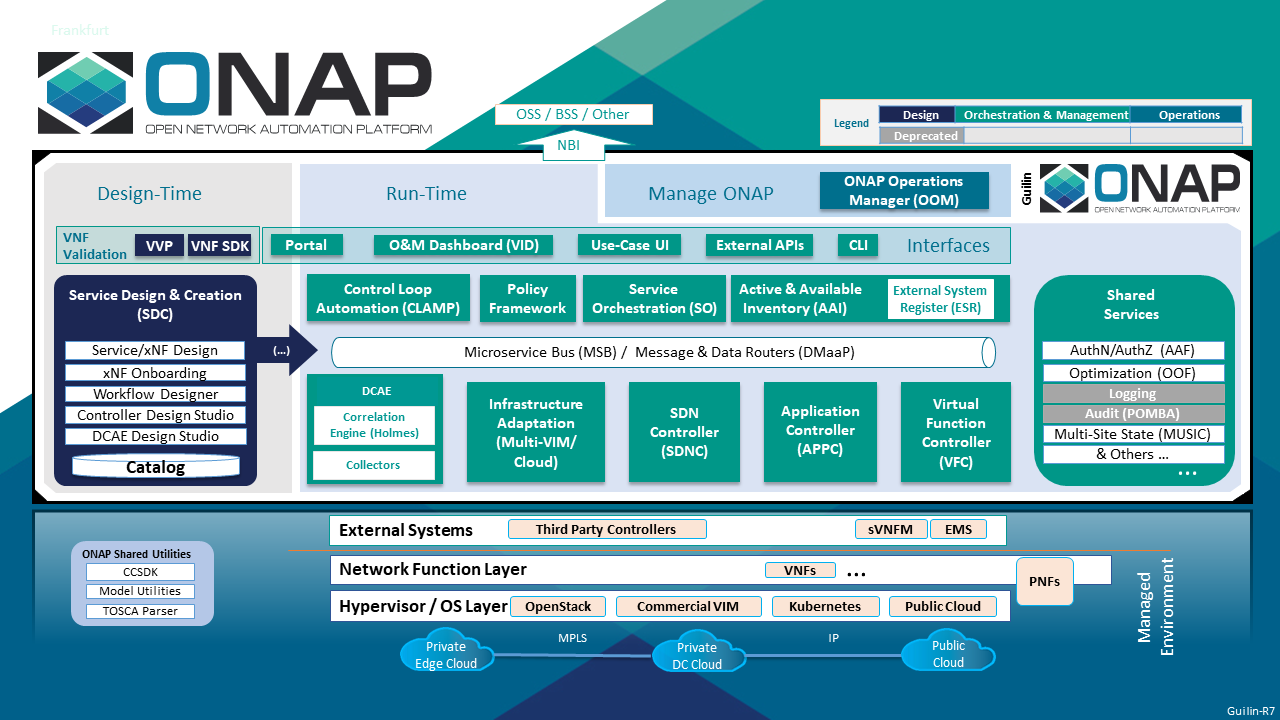
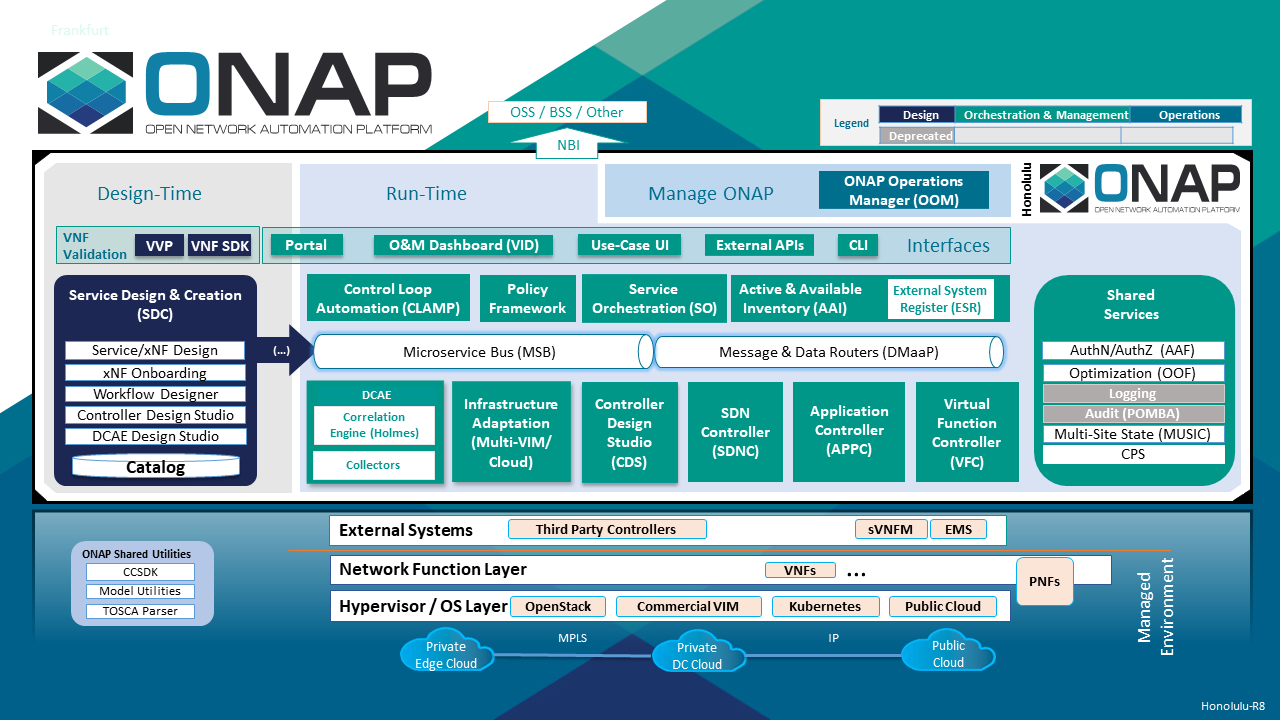
Update architecture description for Honolulu
Updated architecture descrition to add CPS for Honolulu

Issue-ID: DOC-734

(cherry picked from commit ce69aa59a6ebae37f3cbafd63e944a7e367d9d2f)

diff --git a/docs/guides/onap-developer/architecture/onap-architecture.rst b/docs/guides/onap-developer/architecture/onap-architecture.rst
@@ -414,17 +414,24 @@ capabilities with the introduction of adaptive policy execution.
 Shared Services
 ===============
 ONAP provides a set of operational services for all ONAP components including
-activity logging, reporting, common data layer, access control, secret and
-credential management, resiliency, and software lifecycle management.
+activity logging, reporting, common data layer, configuration, persistence, access control,
+secret and credential management, resiliency, and software lifecycle management.
 
 These services provide access management and security enforcement, data backup,
-restoration and recovery. They support standardized VNF interfaces and
-guidelines.
+configuration persistence, restoration and recovery. They support standardized
+VNF interfaces and guidelines.
 
 Operating in a virtualized environment introduces new security challenges and
 opportunities. ONAP provides increased security by embedding access controls in
 each ONAP platform component, augmented by analytics and policy components
 specifically designed for the detection and mitigation of security violations.
+
+Configuration Persistence Service (CPS)
+---------------------------------------
+The Configuration Persistence Service (CPS) provides storage for real-time run-time configuration
+and operational parameters that need to be used by ONAP.
+In R8, Honolulu, the CPS is a stand-alone component, and its details in
+:ref:`CPS - Configuration Persistence Service<onap-cps:architecture>`.
 
 ONAP Modeling
 =============
